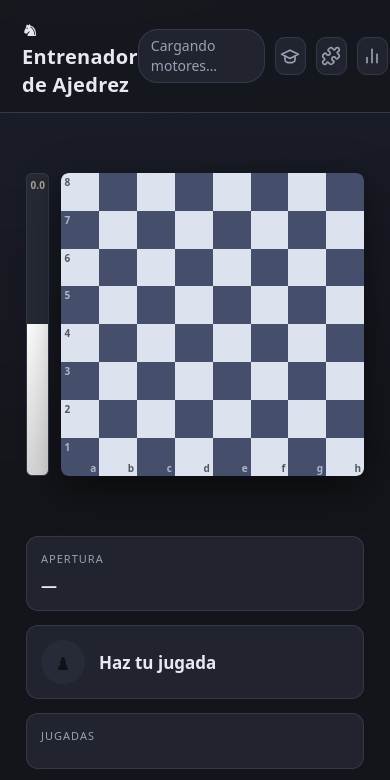
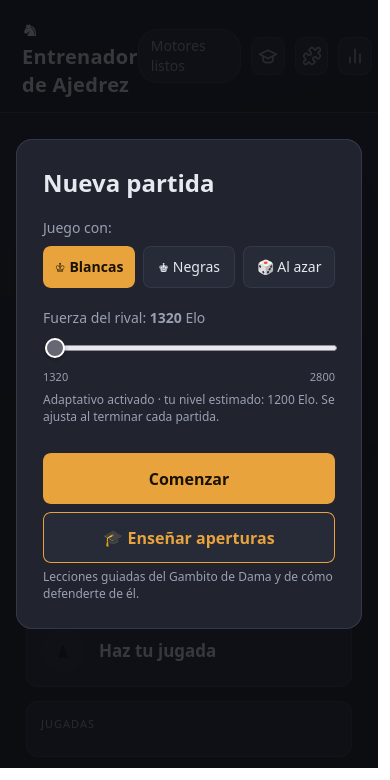
Capturas definitivas de ajedrez y Mostrador

diff --git a/DECISIONES.md b/DECISIONES.md
@@ -173,7 +173,18 @@ Excepción: lo referido a la charcutería (nombre «Mostrador», etiquetas) qued
 - [x] **Parte 4 — Qué puedo construir y Cómo trabajo** (2026-10-07): textos en `src/data/servicios.js`.
 - [x] **Parte 5 — Habilidades y Contacto** (2026-10-07): grupos en `src/data/habilidades.js`; contacto con WhatsApp, Instagram, correo y GitHub.
 - [x] **Parte 6 — Animaciones (GSAP)** (2026-10-07): `src/scripts/animaciones.js`. Peso real: 114 KB (44,5 KB comprimido), GSAP + ScrollTrigger. Si la librería tarda más de 1,5 s, la portada se muestra sin animación.
-- [ ] Parte 7 — Proyectos externos (publicar charcutería, ajedrez y piano; revisar historiales; capturas)
+- [ ] **Parte 7 — Proyectos externos** (en curso, 2026-10-07)
+  - [x] Historiales revisados (ver tabla arriba).
+  - [x] Empire Signal: «En desarrollo» y sin demo hasta que César lo arregle (sigue destacado).
+  - [x] Ajedrez: `main` adelantada hasta `feat/ensenar-aperturas` (local, sin pushear).
+  - [x] Charcutería: `fotos/` y `CLAUDE.md` fuera del repo desde el último commit (siguen en la máquina y **siguen en el historial anterior**).
+  - [x] Area 51: `node_modules/` fuera del repo (local, sin pushear).
+  - [x] Piano: repo git creado en local, primer commit hecho.
+  - [x] Capturas definitivas: ajedrez (pantalla «Nueva partida») y Mostrador (turno abierto con productos de ejemplo). Empire Signal, Area 51 y piano conservan la de su pantalla inicial.
+  - [ ] César: crear el repo del piano en GitHub y hacer los push.
+  - [ ] César: importar ajedrez, Mostrador y piano en Vercel.
+  - [ ] César: hacer públicos los repos.
+  - [ ] Poner los enlaces de demo y código definitivos en `src/data/proyectos.js`.
 - [ ] Parte 8 — Vista previa al compartir, SEO y publicación en Vercel
 
 ## Notas de César sobre los proyectos (2026-10-07, antes de la Parte 7)
